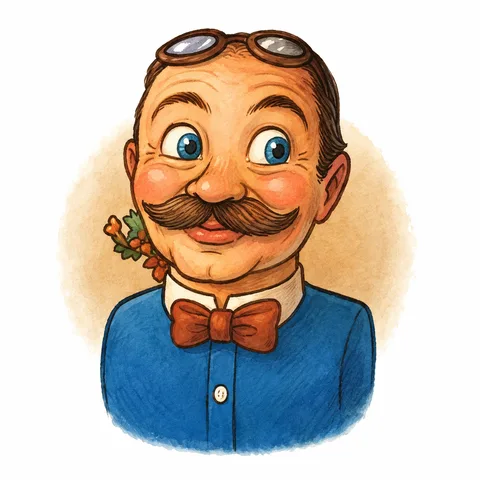
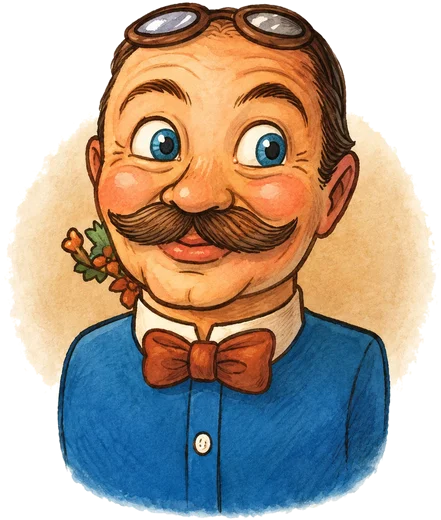
Portrait de Jean-Pierre détouré, sans médaillon blanc

diff --git a/style.css b/style.css
@@ -194,8 +194,8 @@ h2 { font: 400 clamp(32px, 3.4vw, 46px)/1.05 var(--serif); letter-spacing: -.01e
 .insta { display: grid; grid-template-columns: minmax(0, 1.25fr) minmax(0, 1fr); gap: 44px; align-items: center; margin-top: 88px; padding: 56px; border-radius: 8px; background: var(--accent-soft); }
 .insta h2 { margin-top: 10px; }
 .house-head { display: flex; align-items: center; gap: 20px; }
-.portrait { flex: none; width: 120px; height: 120px; border-radius: 50%; object-fit: cover; background: #fff; box-shadow: 0 0 0 4px var(--paper), 0 6px 18px rgba(0, 0, 0, .12); transform: rotate(-3deg); }
-@media (max-width: 560px) { .portrait { width: 88px; height: 88px; } .house-head { gap: 14px; } }
+.portrait { flex: none; width: auto; height: 124px; }
+@media (max-width: 560px) { .portrait { height: 92px; } .house-head { gap: 14px; } }
 .insta p { max-width: 54ch; margin: 14px 0 24px; color: var(--muted); }
 .house-ctas { display: flex; flex-wrap: wrap; gap: 10px; }
 .insta .house-text p { margin: 0 0 12px; }

diff --git a/index.html b/index.html
@@ -136,7 +136,7 @@
     <div class="insta">
       <div>
         <div class="house-head">
-          <img class="portrait" src="jean-pierre.webp" width="480" height="480" loading="lazy" data-i18n-alt="portraitAlt" alt="Jean-Pierre Cartier en dessin : moustache, nœud papillon et lunettes sur le front">
+          <img class="portrait" src="jean-pierre.webp" width="441" height="520" loading="lazy" data-i18n-alt="portraitAlt" alt="Jean-Pierre Cartier en dessin : moustache, nœud papillon et lunettes sur le front">
           <div>
             <span class="kicker" data-i18n="houseKicker">La maison</span>
             <h2 data-i18n="houseTitle">La brocante en coulisses</h2>
